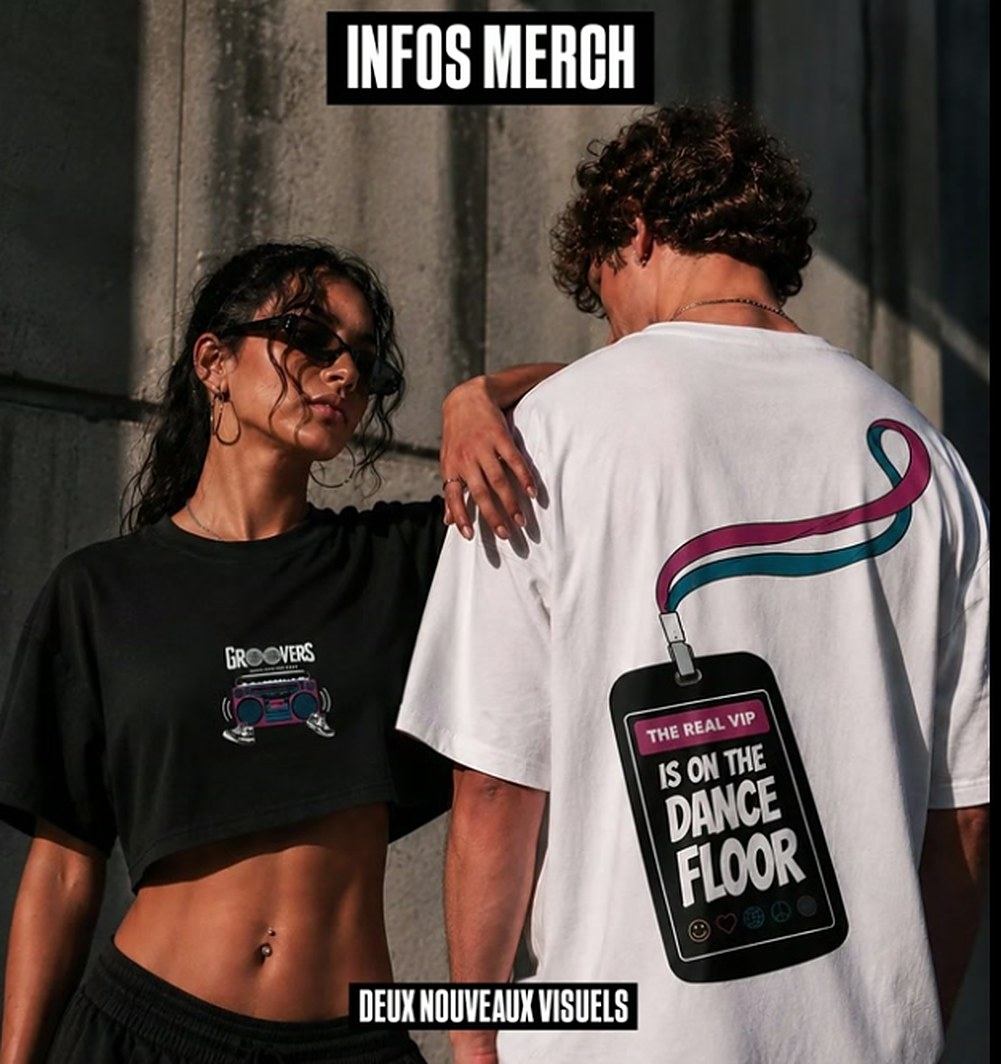
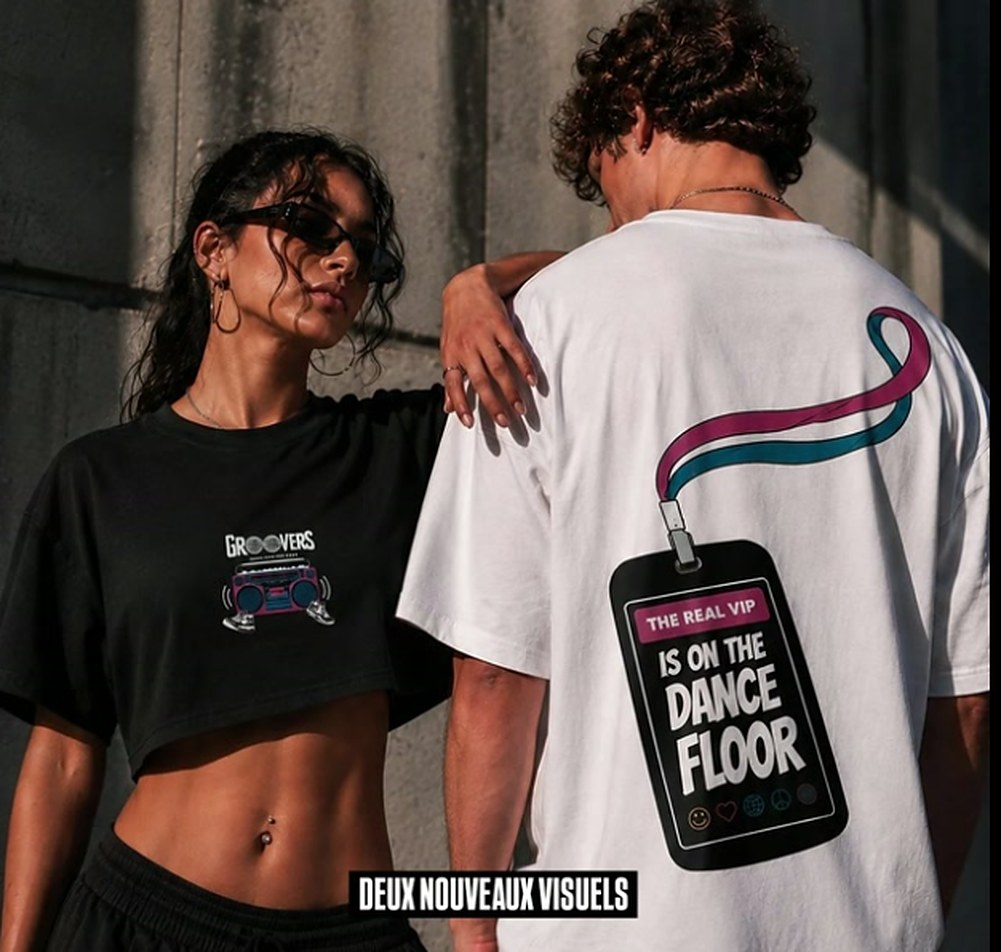
Hero mobile : taille du wordmark et recadrage campagne
Claude-Session: https://claude.ai/code/session_01CCGcppUP6V6zQ8orPJYzm9

diff --git a/src/components/home/Hero.tsx b/src/components/home/Hero.tsx
@@ -62,9 +62,9 @@ export function Hero() {
         >
           Electronic Music Events & Clothing — Lyon
         </motion.p>
-        <h1 className="t-display text-[22vw] sm:text-[17vw] md:text-[13.5vw] leading-[0.82] text-white">
+        <h1 className="t-display text-[18.5vw] sm:text-[16vw] md:text-[13.5vw] leading-[0.82] text-white">
           <span className="block overflow-hidden pb-[0.06em] text-[#5d7fc4]">{word("Smilin’", 0.15)}</span>
-          <span className="block overflow-hidden pb-[0.06em] text-[#c45a84] pl-[0.9em] md:pl-[1.4em]">{word("Dancin’", 0.3)}</span>
+          <span className="block overflow-hidden pb-[0.06em] text-[#c45a84] pl-[0.5em] md:pl-[1.4em]">{word("Dancin’", 0.3)}</span>
         </h1>
         <div className="mt-8 md:mt-10 grid md:grid-cols-[1fr_auto] gap-6 md:gap-10 items-end">
           <motion.p
